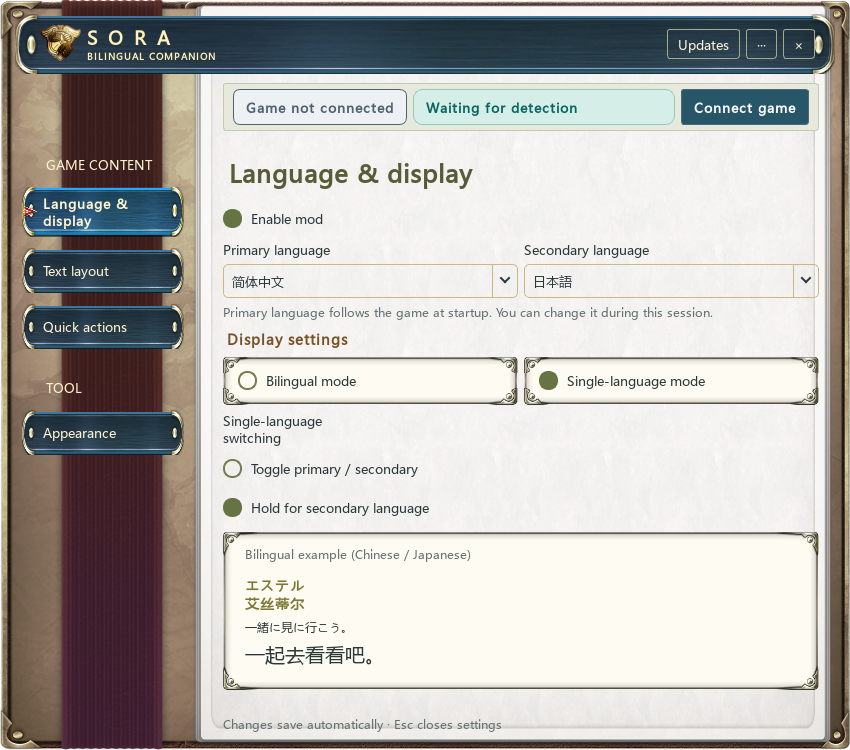
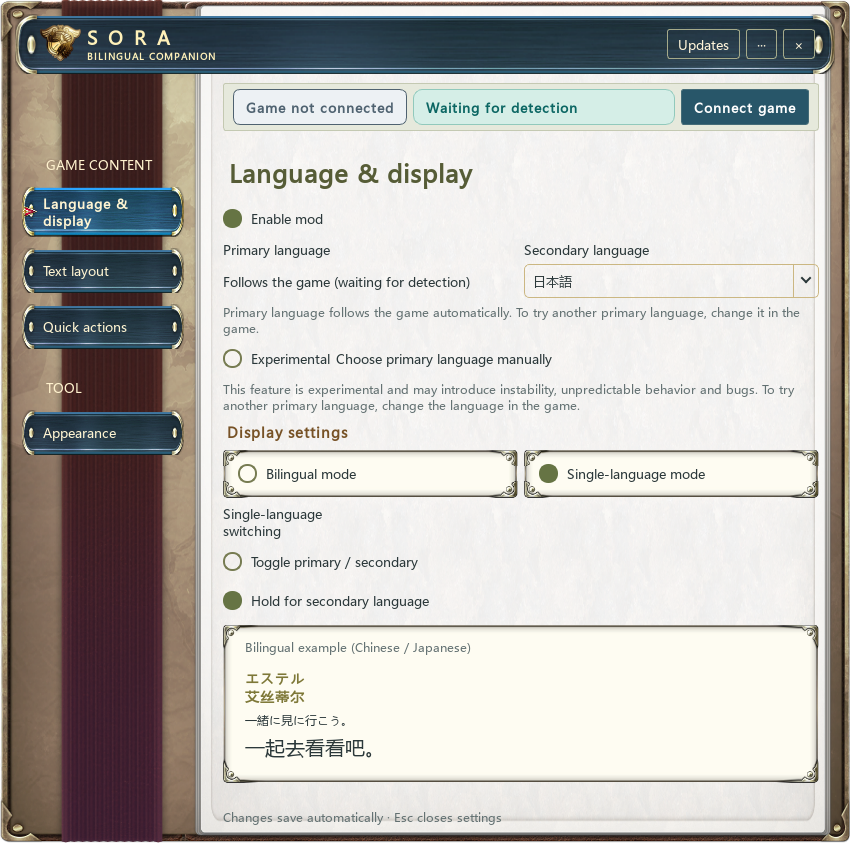
文档：恢复三语图文指南并补全 1.0.2 三语日志

Changed region(s): [[0.0, 0.0, 1.0, 1.0], [0.0, 0.184, 0.2141, 0.6133], [0.0, 0.9507, 0.0612, 1.0]]

diff --git a/README.en.md b/README.en.md
@@ -4,7 +4,30 @@
 
 Display two languages together in the PC game, or hold a shortcut to switch temporarily. Supports Japanese, English, Simplified and Traditional Chinese, Korean, French, German and Spanish.
 
-![English–Japanese dialogue](docs/images/dialogue-en-ja.jpg)
+**[Download · GitHub](https://github.com/Llugaes/bilingual-sora-2nd/releases/latest) · [Gitee mirror](https://gitee.com/Llugaes/bilingual-sora-2nd/releases) · [Release notes](RELEASE_NOTES.md)**
+
+![English–Japanese dialogue](https://raw.githubusercontent.com/Llugaes/bilingual-sora-2nd/main/docs/images/dialogue-en-ja.jpg)
+
+## See it in game
+
+Compare dialogue, menus and item descriptions side by side, or hold a shortcut when you need a second language. These are gameplay examples from previous project versions; size and spacing depend on the version and your settings. They are not a screen-by-screen validation of 1.0.2.
+
+| Item names and descriptions | Equipment and stats |
+|---|---|
+| ![Items](https://raw.githubusercontent.com/Llugaes/bilingual-sora-2nd/main/docs/images/items.jpg) | ![Equipment](https://raw.githubusercontent.com/Llugaes/bilingual-sora-2nd/main/docs/images/equipment.jpg) |
+
+<details>
+<summary>More examples: dialogue logs, field prompts and other language pairs</summary>
+
+![Bilingual dialogue log](https://raw.githubusercontent.com/Llugaes/bilingual-sora-2nd/main/docs/images/dialogue-log-zh-ja.jpg)
+
+![Field interactions](https://raw.githubusercontent.com/Llugaes/bilingual-sora-2nd/main/docs/images/field.jpg)
+
+![Chinese–Japanese dialogue](https://raw.githubusercontent.com/Llugaes/bilingual-sora-2nd/main/docs/images/dialogue-zh-ja.jpg)
+
+![English–Japanese arts and descriptions](https://raw.githubusercontent.com/Llugaes/bilingual-sora-2nd/main/docs/images/arts-en-ja.jpg)
+
+</details>
 
 ## Install
 
@@ -20,6 +43,18 @@ Enable **Experimental**, off by default, to choose a primary manually. This expe
 
 **Recommended: single-language mode → hold for secondary.** Hold to compare, release to return. Bilingual mode shows both together. Adjust size, spacing, color and opacity under **Text layout**.
 
+| Mode | Normally shows | Language shortcut |
+|---|---|---|
+| Single language · hold | Primary language | Hold for secondary; release to return |
+| Single language · toggle | One selected language | Switch between primary and secondary |
+| Bilingual | Both languages | Show or hide secondary |
+
+These screenshots were generated offline from the **actual 1.0.2 settings UI**, without a game connection. Choose the mode and secondary language on the left; adjust text size, spacing and color on the right. Changes save automatically.
+
+| Language & display | Text layout |
+|---|---|
+| ![1.0.2 language settings](https://raw.githubusercontent.com/Llugaes/bilingual-sora-2nd/main/docs/images/settings-en.png) | ![1.0.2 text layout](https://raw.githubusercontent.com/Llugaes/bilingual-sora-2nd/main/docs/images/layout-en.png) |
+
 | Action | Default shortcut |
 |---|---|
 | Show / hide interface | Ctrl + Shift + F9 |
@@ -27,24 +62,54 @@ Enable **Experimental**, off by default, to choose a primary manually. This expe
 
 Under **Quick actions**, select an action and record a keyboard or controller combination. Controller names are detected automatically or selected as PlayStation, Xbox or Switch; changing names preserves the binding.
 
+<details>
+<summary>Where to record keyboard and controller shortcuts</summary>
+
+![Quick actions](https://raw.githubusercontent.com/Llugaes/bilingual-sora-2nd/main/docs/images/shortcuts-en.png)
+
+</details>
+
 Click the compact window or gear to open settings; hold and drag to move it. **—** and the settings **×** hide to tray; right-click the tray to exit completely. Text, symbols and color distinguish building, connecting, ready, disabled and error states. **Appearance** provides three themes, Chinese/English/Japanese interface languages and background opacity.
 
-Additional glyphs are prepared from current local resources in an external cache and loaded into memory on connection. Startup, game exit and reconnection never automatically write to the game directory. Preparation, verification, loading and errors are reported separately. Historical explicit font installations remain separate; this default does not imply DLL-free operation.
+![Compact window: languages, connection status and settings](https://raw.githubusercontent.com/Llugaes/bilingual-sora-2nd/main/docs/images/status-bar-en.png)
+
+<details>
+<summary>Three themes, interface languages and background opacity</summary>
+
+![Appearance settings](https://raw.githubusercontent.com/Llugaes/bilingual-sora-2nd/main/docs/images/appearance-en.png)
+
+</details>
+
+Additional fonts are prepared automatically from your local game resources and loaded on connection. The UI reports progress and errors. Manual font installation is normally unnecessary; allow time for the first preparation.
 
 ## Limits and compatibility
 
 - Bilingual dialogue logs can still hitch when opened and reduce frame rate. Single-language hold mode can reduce the burden.
 - Uncertain matches retain original text. Text in images or videos is excluded. Fixed game text boxes may crowd long text; reduce size or use single-language mode.
 - New combinations still require mapping work. Valid language-local parsing and identity caches are reused; zero waiting is not guaranteed.
+- This release was tested on Steam PC 1.04. The tool is for **Trails in the Sky the 2nd**; it does not support **Trails in the Sky the 1st**.
 - Accepted 0.4.2 samples include original Steam build 25386012 / EXE 1.03.2 and the EXE bundled with full-voice MOD 1.0.7. The latter tested only the replacement EXE, not the complete voice resources. Other modified EXEs, the full game and all language combinations have not been individually tested.
 
 ## Updates and help
 
-**1.0.1 fixes startup performance issues.** Version 1.0.0 has been withdrawn from stable updates. If opening the tool causes high CPU or memory use, quit and update it. Initial use and resource changes still require cache preparation; the preparation process exits afterwards. While the game is closed, the tool no longer continuously reads all text archives.
+**1.0.2 fixes continuous memory growth with bilingual display enabled and reduces model preparation peaks.** It also adds equipment restriction labels, unifies small-title and item-description layouts, and fixes text shifting on menu entry. See the [memory verification report](docs/verification/memory-r8.md) for methods, comparisons against the r7 candidate and coverage limits. Memory improvements are not a claim of higher frame rates throughout the game.
 
-The tool was measured against 0.4.5 both with the game closed and in a real game scene; see the [test results and scope](docs/verification/p0-startup-performance.md).
+The startup fixes from 1.0.1 remain included. First use and changed game resources still require preparation; 1.0.0 remains withdrawn from stable updates.
 
 Automatic checks only notify. Download, install and rollback require manual confirmation; exit the game before updating. Gitee is preferred for downloads in China; GitHub retains full portable packages and older releases. Roll back with an older complete package, preserve settings and optionally disable update checks.
+
+<details>
+<summary>Where to update or choose a previous version</summary>
+
+![1.0.2 update panel](https://raw.githubusercontent.com/Llugaes/bilingual-sora-2nd/main/docs/images/updates-en.png)
+
+</details>
+
+| Download | Purpose |
+|---|---|
+| `windows-x64-setup.exe` | Recommended: install or upgrade |
+| `windows-x64.zip` without `app` / `runtime` | Complete portable edition; extract and run |
+| `app` / `runtime` ZIPs and `update.json` | In-app update components; no separate manual installation needed |
 
 For connection failures, read status details and retry; for font failures, check font status. Windowed/borderless mode works best for the tool interface. Report tool/game versions, game text language, primary/secondary languages and a short error excerpt. Do not upload complete game resources, caches or saves.
 

diff --git a/RELEASE_NOTES.md b/RELEASE_NOTES.md
@@ -1,5 +1,7 @@
 # 1.0.2
 
+## 简体中文
+
 - 修复开启双语后游戏内存持续增长的问题。修正原生回调依赖中的释放缺陷，保留现有文字显示和交互。
 - 降低文本模型准备的内存峰值；已有完整缓存通过校验后直接复用，减少重复解析和临时数据。
 - 统一料理等菜单小标题的字号适配，修复小字号下主副文字大小颠倒、位置偏低的问题，保留正常字号页面的表现。
@@ -10,3 +12,29 @@
 升级前请正常退出游戏和旧版工具，再安装新版；已有设置会保留。自动检查更新只提示，不自动安装。
 
 同机对已验收 r7 与本次 r8 候选的模型准备进程树实测：冷缓存峰值从 2451 降至 1858 MiB，热缓存峰值从 1096 降至 21 MiB。冷准备耗时约 207 → 212 秒，热准备约 2.73 → 1.03 秒；本次不声称冷准备加速。固定菜单验证未再出现此前约 10 MiB/分钟的线性增长；这不代表所有游戏场景或帧率测试。方法与验证范围见 [内存验证记录](https://github.com/Llugaes/bilingual-sora-2nd/blob/v1.0.2/docs/verification/memory-r8.md)。
+
+## English
+
+- Fixed continuous growth in game memory while bilingual display is enabled by correcting a native callback cleanup defect in a dependency. Existing text display and interaction are preserved.
+- Reduced peak memory during text-model preparation. Fully validated existing caches are reused directly, avoiding repeated parsing and temporary data.
+- Unified scaling for small menu headings, including the recipe screen. Fixed reversed primary/secondary text sizes and downward displacement at small font sizes, while preserving normal-size layouts.
+- Added equipment restriction labels such as female-only, male-only and character-only through shared compilation rules for the game's eight language resources.
+- Unified vertical centering of all bilingual item descriptions while preserving icons and mixed text. Fixed position jumps on menu entry that previously recovered only after selecting another item.
+- Consolidated duplicate effect decisions and model-writing logic while preserving complete text associations and existing rejection rules.
+
+Exit the game and the old tool normally before installing. Your settings are preserved. Automatic update checks only notify; they never install automatically.
+
+On the same machine, model-preparation process-tree measurements comparing the accepted r7 candidate with r8 showed cold-cache peak memory falling from 2451 to 1858 MiB, and warm-cache peak memory from 1096 to 21 MiB. Preparation took approximately 207 → 212 seconds cold and 2.73 → 1.03 seconds warm; no cold-start speedup is claimed. Fixed-menu validation no longer showed the previous linear growth of roughly 10 MiB/minute. This does not cover every game scene or establish a frame-rate improvement. See the [memory verification report](https://github.com/Llugaes/bilingual-sora-2nd/blob/v1.0.2/docs/verification/memory-r8.md) for methods and scope.
+
+## 日本語
+
+- 二言語表示中にゲームのメモリ使用量が増え続ける問題を修正しました。依存ライブラリのネイティブコールバック解放処理を修正し、既存の文字表示と操作は維持しています。
+- テキストモデル準備時のピークメモリ使用量を削減しました。完全性を検証済みのキャッシュを直接再利用し、再解析や一時データを減らしています。
+- 料理画面などの小見出しの文字サイズ調整を共通化しました。小さい文字で主言語と副言語のサイズが逆転したり、下にずれたりする問題を修正し、通常サイズの表示は維持しています。
+- 「女性専用」「男性専用」「キャラクター専用」などの装備条件の対応を追加しました。ゲームの八言語リソースを共通ルールで処理します。
+- すべてのアイテム説明で二言語全体を上下中央に配置する処理を共通化し、アイコンや混在する文字を維持しました。メニューを開くと位置がずれ、別のアイテムを選ぶまで戻らない問題も修正しました。
+- 重複していた効果の判定とモデル書き出しを整理し、テキストの対応関係と従来の拒否条件を維持しました。
+
+更新前にゲームと旧版ツールを通常の手順で終了してください。設定は保持されます。更新の自動確認は通知のみで、自動インストールは行いません。
+
+同一環境で、実機確認済みの r7 候補版と r8 のモデル準備プロセス全体を測定しました。キャッシュなしのピークは 2451 → 1858 MiB、キャッシュありは 1096 → 21 MiB でした。処理時間はそれぞれ約 207 → 212 秒、2.73 → 1.03 秒で、初回準備の高速化は主張しません。固定メニューでの検証では、従来の約 10 MiB／分の継続的な増加は再現しませんでした。全場面の検証やフレームレート改善を示すものではありません。測定方法と範囲は[メモリ検証記録](https://github.com/Llugaes/bilingual-sora-2nd/blob/v1.0.2/docs/verification/memory-r8.md)を参照してください。
